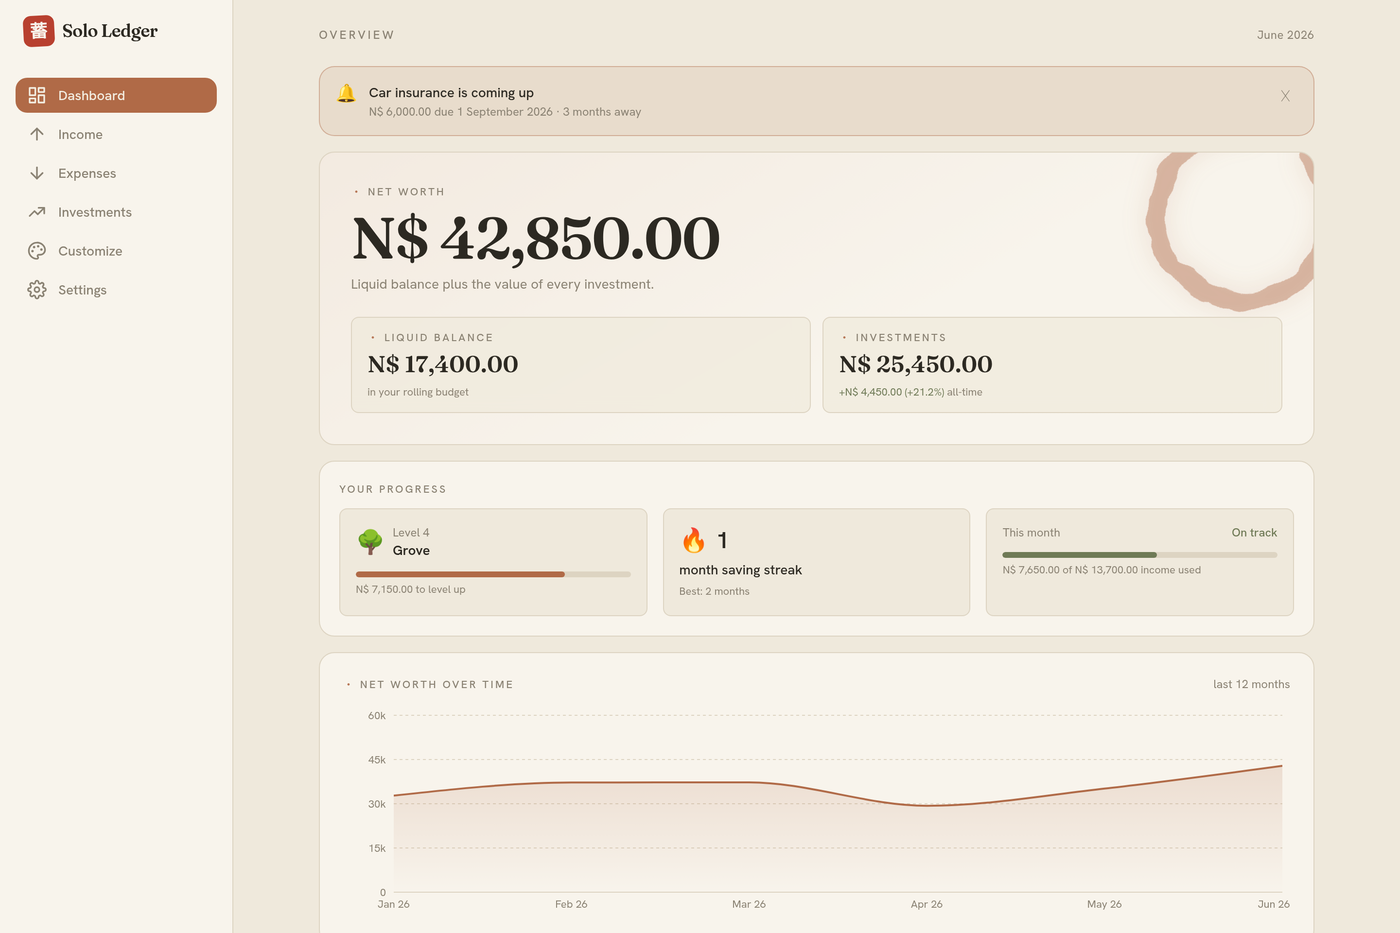
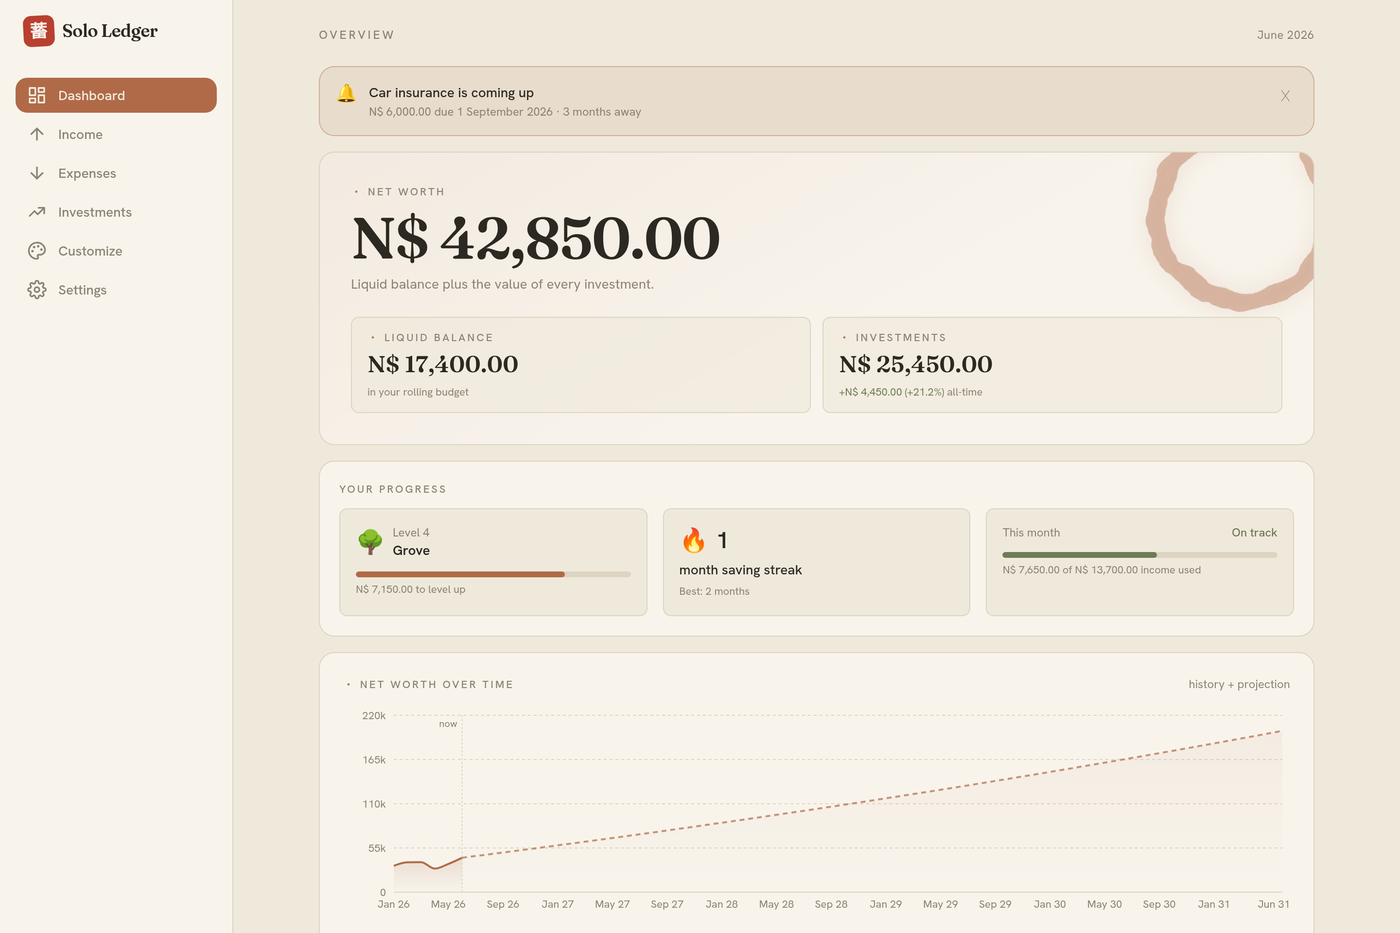
Docs/assets: surface projections in the user guide + README
guide.html: Dashboard step now mentions the dashed projection + 1/3/5yr marks;
Investments gains a "Project" step; new dedicated "Looking ahead — Projections"
page (with the projection-panel screenshot) inserted before Customize, later
pages renumbered.

capture.mjs: seeds modest assumedAnnualRate/monthlyContribution so the demo
projection reads believably, and captures a focused projection.png (a card with
its Project panel open). gallery.mjs seed kept in sync.

Regenerated: Solo-Ledger-User-Guide.pdf, docs/dashboard.png (now shows the
projection line), docs/themes.gif.

diff --git a/tutorial/guide.html b/tutorial/guide.html
@@ -165,7 +165,7 @@
     <li><b>Net worth</b> is the big number at the top: your liquid balance plus the value of every investment.</li>
     <li><b>Liquid balance vs. Investments</b> break that total in two — spendable money now, and money that's invested.</li>
     <li><b>Your progress</b> shows a gentle level, a saving streak, and how much of this month's income you've used. (You can hide this in Customize.)</li>
-    <li><b>Net worth over time</b> charts your last 12 months so you can see the trend at a glance.</li>
+    <li><b>Net worth over time</b> charts your recent history, then continues past a <b>“now”</b> marker as a dashed <b>projection</b> — with <b>1, 3 and 5-year</b> estimates in the cards beneath.</li>
     <li><b>This month</b> spells out income, expenses, and the difference between them.</li>
   </ol>
   <figure>
@@ -227,6 +227,7 @@
     <li>Now and then, press <b>Record balance</b> to log what it's worth today.</li>
     <li>Use <b>Contribute</b> or <b>Withdraw</b> when you add or take out money — these don't count as growth.</li>
     <li>Read the growth figures for <b>1 month</b>, <b>3 months</b> and <b>1 year</b>, plus all-time growth beside the name.</li>
+    <li>Press <b>Project</b> to look ahead — see the next page.</li>
     <li>The <b>Show</b> chips and <b>Sort</b> menu (also on Income and Expenses) let you hide the cards or quick-edit list and order portfolios by name, amount or start date.</li>
   </ol>
   <figure>
@@ -234,6 +235,30 @@
   </figure>
   <div class="foot">Solo Ledger · How to use the app</div>
   <div class="pagenum">6</div>
+</section>
+
+<!-- ───────────────────────── PROJECTIONS ───────────────────────── -->
+<section class="page">
+  <p class="eyebrow">Looking ahead</p>
+  <h2>Projections</h2>
+  <hr class="rule" />
+  <p class="lead">Solo Ledger doesn't only record the past — it estimates where your money is heading, using <b>your own numbers</b>. There's no target to guess at: it reads how each portfolio has actually grown and carries that forward.</p>
+  <ol class="steps">
+    <li>On any portfolio, press <b>Project</b>. The panel opens with the growth rate Solo Ledger <b>worked out from your history</b> — measured carefully, so money you <i>added</i> isn't mistaken for money you <i>earned</i>.</li>
+    <li>Not enough track record to trust it? Type your own <b>annual growth&nbsp;%</b> to override the estimate — or press <b>“use my history instead”</b> to switch back.</li>
+    <li>Add a <b>monthly contribution</b> to see how a steady top-up compounds over time.</li>
+    <li>Read where it could land in <b>1, 3, 5 and 10 years</b> — the figures update live as you type.</li>
+    <li>Your <b>Dashboard</b> rolls every portfolio into a single forward line on the net-worth chart, with 1, 3 and 5-year marks.</li>
+  </ol>
+  <figure>
+    <img class="shot tall" src="shots/projection.png" alt="A portfolio's projection panel, open" />
+    <figcaption>The projection panel — an editable rate, a monthly contribution, and a live 1/3/5/10-year preview.</figcaption>
+  </figure>
+  <div class="callout">
+    <b>An estimate, not a promise.</b> Markets don't move in straight lines. A projection assumes steady growth, so read it as the <i>shape</i> of where you're heading — a guide, not a guarantee.
+  </div>
+  <div class="foot">Solo Ledger · How to use the app</div>
+  <div class="pagenum">7</div>
 </section>
 
 <!-- ───────────────────────── CUSTOMIZE ───────────────────────── -->
@@ -251,7 +276,7 @@
     <img class="shot tall" src="shots/customize.png" alt="Customize page" />
   </figure>
   <div class="foot">Solo Ledger · How to use the app</div>
-  <div class="pagenum">7</div>
+  <div class="pagenum">8</div>
 </section>
 
 <!-- ───────────────────────── SETTINGS ───────────────────────── -->
@@ -274,7 +299,7 @@
     <b>Back up regularly.</b> Because everything lives only in this browser, clearing your browser data or switching devices will lose it. A backup file is the only way to move or recover your ledger.
   </div>
   <div class="foot">Solo Ledger · How to use the app</div>
-  <div class="pagenum">8</div>
+  <div class="pagenum">9</div>
 </section>
 
 </body>